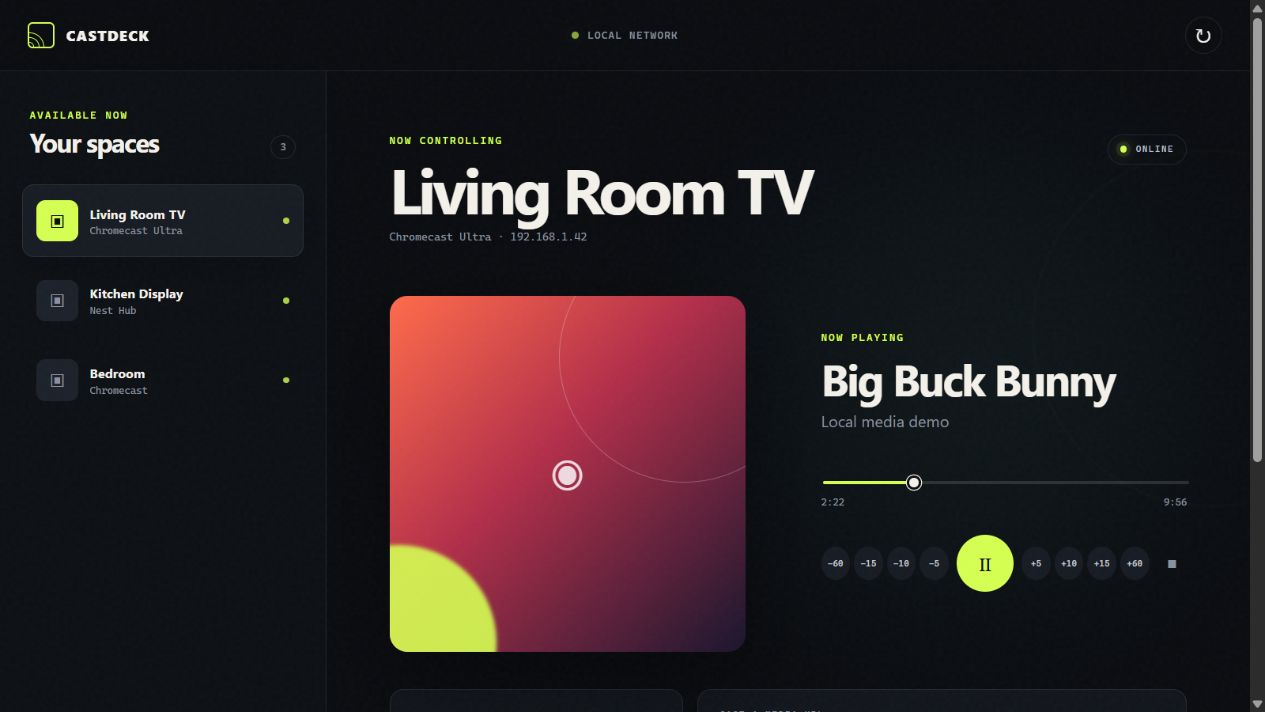
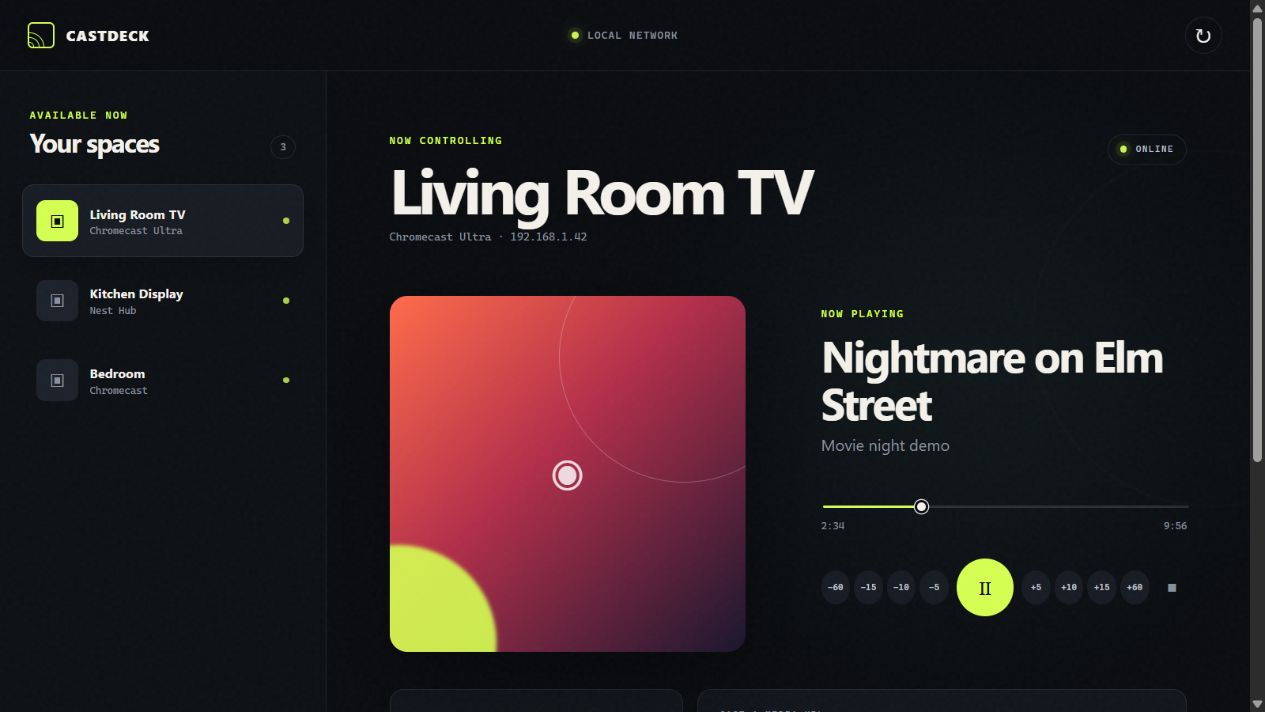
Update CastDeck demo media

diff --git a/server.py b/server.py
@@ -141,9 +141,9 @@ def default_demo_status(device_id: str) -> dict:
     return {
         "volume": {"level": 0.42, "muted": False},
         "playerState": "PLAYING" if active else "IDLE",
-        "media": {"title": "Big Buck Bunny", "subtitle": "Local media demo", "image": "",
+        "media": {"title": "Nightmare on Elm Street", "subtitle": "Movie night demo", "image": "",
                   "currentTime": 142, "duration": 596,
-                  "contentId": "https://example.com/big-buck-bunny.mp4"} if active else None,
+                  "contentId": "https://example.com/movie-night.mp4"} if active else None,
     }
 
 
